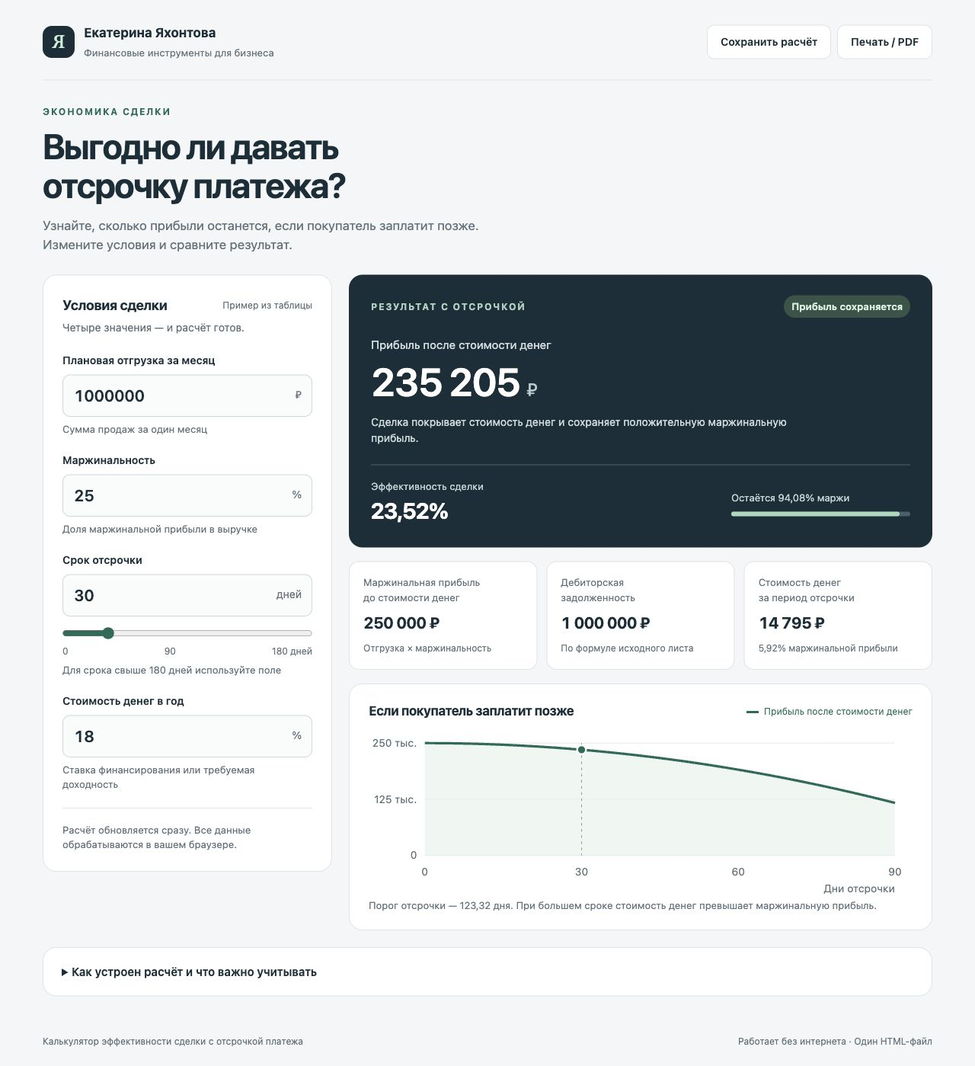
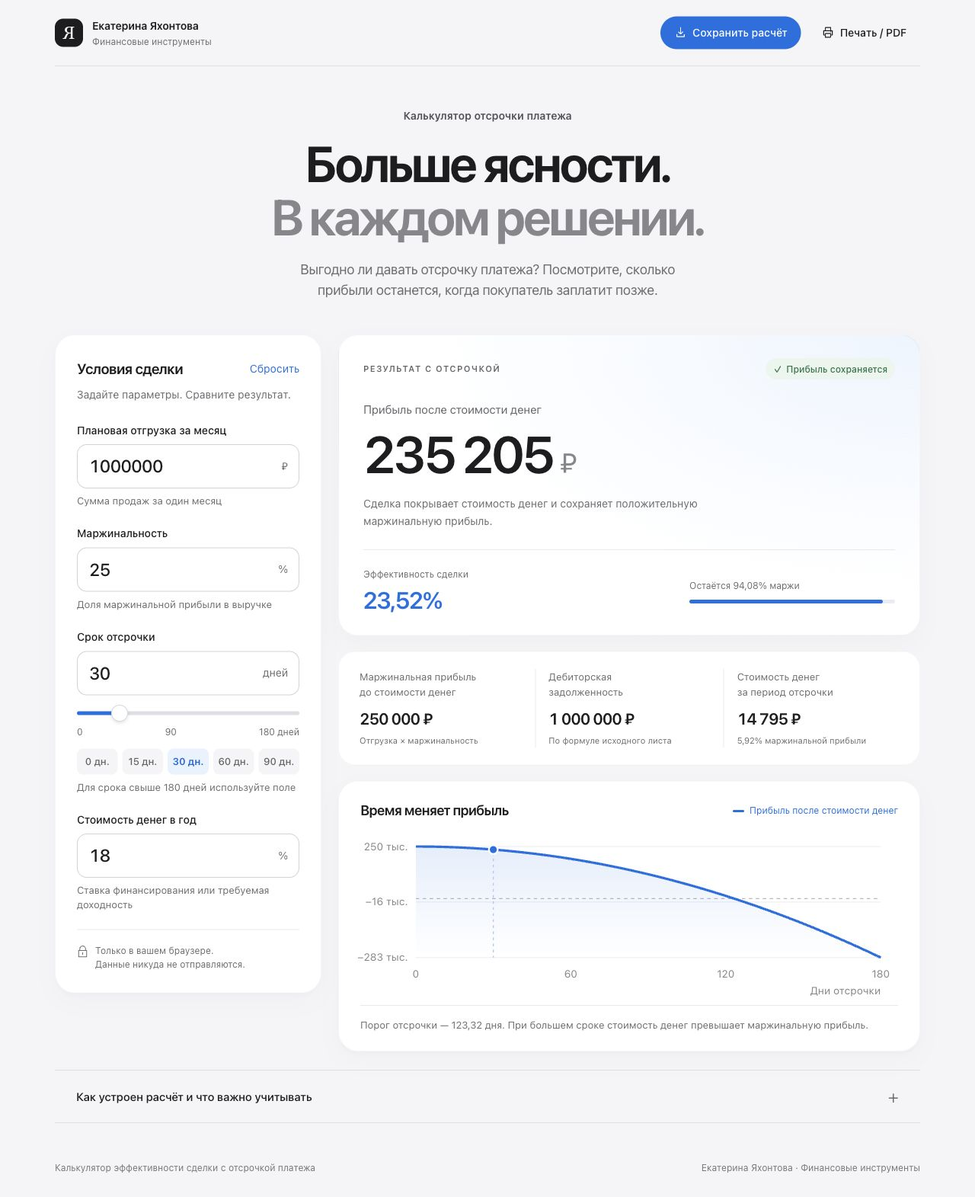
Обновить дизайн калькулятора: светлый интерфейс и мобильная версия

diff --git a/index.html b/index.html
@@ -6,28 +6,28 @@
 <meta name="description" content="Оцените, как отсрочка платежа влияет на маржинальную прибыль сделки. Автономный калькулятор по модели Екатерины Яхонтовой.">
 <title>Выгодно ли давать отсрочку платежа?</title>
 <style>
-:root{--ink:#192f39;--muted:#61717a;--paper:#f3f6f7;--line:#dce4e8;--green:#146b57;--mint:#d2f1df;--red:#a13d32;--amber:#99630a}*{box-sizing:border-box}body{margin:0;background:var(--paper);color:var(--ink);font:16px/1.5 -apple-system,BlinkMacSystemFont,"Segoe UI",Arial,sans-serif}button,input{font:inherit}button{cursor:pointer}button:focus-visible,input:focus-visible,summary:focus-visible,a:focus-visible{outline:3px solid #38ac8d;outline-offset:4px}button{border:1px solid var(--line);border-radius:10px;background:white;color:var(--ink);padding:11px 17px;font-size:14px;font-weight:600;transition:background .2s}button:hover{background:#eaf2ee}.wrap{max-width:1240px;margin:auto;padding:30px 36px 24px}.top{display:flex;align-items:center;justify-content:space-between;gap:20px;padding-bottom:25px;border-bottom:1px solid var(--line)}.brand{display:flex;align-items:center;gap:12px}.mark{display:grid;place-items:center;background:var(--ink);color:#c8efda;border-radius:12px;width:42px;height:42px;font:24px Georgia,serif}.brand strong{display:block;font-size:17px}.brand span{font-size:13px;color:var(--muted)}.actions{display:flex;gap:8px}.eyebrow{font-size:12px;font-weight:700;letter-spacing:1.8px;text-transform:uppercase;color:var(--green)}header{padding:32px 0 27px;max-width:820px}h1{font-size:clamp(30px,3.8vw,46px);line-height:1.12;letter-spacing:-1.8px;margin:10px 0 14px;font-weight:650}header p{margin:0;color:var(--muted);max-width:650px;font-size:17px}.layout{display:grid;grid-template-columns:380px minmax(0,1fr);gap:22px;align-items:start}.card{border:1px solid var(--line);border-radius:18px;background:white;overflow:hidden}.inputs{padding:25px}.card-title{display:flex;justify-content:space-between;align-items:center;gap:12px}h2{font-size:19px;letter-spacing:-.4px;margin:0}.card-title h2{font-size:18px}.text-button{white-space:nowrap;padding:3px 0;border:0;background:none;font-size:12px;color:var(--muted);font-weight:400;border-radius:0}.text-button:hover{background:none;color:var(--green)}.intro{font-size:14px;color:var(--muted);margin:6px 0 22px}.field{margin:0 0 21px}.field label{display:block;font-size:14px;font-weight:600;margin-bottom:8px}.control{position:relative}.control input{width:100%;border:1px solid #cbd7dd;background:#fafcfc;border-radius:10px;padding:11px 52px 11px 14px;font-size:21px;font-weight:600;color:var(--ink);font-variant-numeric:tabular-nums;appearance:textfield}.control input::-webkit-inner-spin-button{appearance:none}.unit{position:absolute;right:14px;top:16px;font-size:14px;color:var(--muted);pointer-events:none}.help{font-size:13px;color:var(--muted);margin:6px 0 0}.control input[aria-invalid=true]{border:2px solid var(--red);background:#fff6f3}.slider{width:100%;accent-color:var(--green);margin:14px 0 0;cursor:pointer}.range-labels{display:flex;justify-content:space-between;color:var(--muted);font-size:12px}.input-note{border-top:1px solid var(--line);padding-top:18px;font-size:13px;color:var(--muted)}.right{display:grid;gap:18px}.result{border-radius:18px;background:var(--ink);color:white;padding:27px 29px;position:relative;overflow:hidden}.result .eyebrow{color:#a8cfbf}.badge{display:inline-flex;align-items:center;gap:7px;padding:5px 10px;border-radius:30px;background:#345448;color:#d6f5df;font-size:13px;font-weight:600}.badge.loss{background:#5c3c3d;color:#ffd5cd}.badge.neutral{background:#535142;color:#fff0c6}.result-top{display:flex;justify-content:space-between;gap:15px;align-items:center}.result-label{margin:24px 0 0;color:#d2dfe2;font-size:15px}.amount{font-size:clamp(35px,4vw,51px);line-height:1.2;font-weight:600;letter-spacing:-1.6px;margin:7px 0 12px;font-variant-numeric:tabular-nums}.amount small{font-size:24px;font-weight:400;color:#b7cccf;letter-spacing:0}.verdict{font-size:14px;color:#cbdadb;max-width:590px;margin:0}.result-bottom{display:flex;align-items:center;justify-content:space-between;gap:18px;margin-top:24px;padding-top:18px;border-top:1px solid #49616a}.eff{font-size:29px;letter-spacing:-.8px}.mini-label{font-size:13px;color:#c1d4d6}.retention{width:46%;max-width:235px}.track{height:6px;background:#47616a;border-radius:4px;overflow:hidden;margin-top:9px}.fill{height:100%;width:94%;background:#a5d9bd;border-radius:4px}.stats{display:grid;grid-template-columns:repeat(3,minmax(0,1fr));gap:12px}.stat{padding:17px 18px;background:white;border:1px solid var(--line);border-radius:13px}.stat .label{font-size:13px;color:var(--muted);min-height:39px}.stat strong{font-size:21px;letter-spacing:-.5px;display:block;margin:8px 0 4px;font-variant-numeric:tabular-nums}.stat .sub{font-size:12px;color:var(--muted)}.chart-card{padding:22px 25px}.chart-head{display:flex;justify-content:space-between;align-items:center;gap:12px}.chart-head h2{font-size:17px}.legend{font-size:12px;color:var(--green);white-space:nowrap}.legend:before{content:'';display:inline-block;width:16px;height:3px;background:var(--green);vertical-align:middle;margin-right:7px}svg{display:block;width:100%;height:auto;margin-top:9px;overflow:visible}svg text{font-family:inherit;font-size:12px;fill:var(--muted)}.chart-note{font-size:13px;color:var(--muted);margin:5px 0 0}.details{margin-top:22px;padding:0 24px}summary{cursor:pointer;padding:20px 0;font-size:15px;font-weight:600}.method{padding:0 0 20px;max-width:900px;color:var(--muted);font-size:14px}.formulas{display:grid;grid-template-columns:1fr 1fr;gap:10px 24px;margin:14px 0}.formula{padding-bottom:10px;border-bottom:1px solid var(--line)}.formula strong{display:block;color:var(--ink);font-weight:600}.method p{margin:13px 0}.method a{color:var(--green)}footer{display:flex;justify-content:space-between;gap:18px;color:var(--muted);font-size:12px;padding:22px 0 0}#error{color:var(--red);font-size:14px;margin:15px 0 0}#notice{font-size:13px;color:var(--green);text-align:right;margin:8px 0 0;min-height:20px}.print-meta{display:none}.invalid .right{opacity:.5}.invalid .result{background:#57666a}@media(max-width:900px){.layout{grid-template-columns:320px minmax(0,1fr)}.wrap{padding:24px}.result{padding:23px}.stats{gap:8px}.stat{padding:14px 12px}.stat strong{font-size:18px}.result-top{align-items:flex-start;flex-direction:column}.retention{width:50%}}@media(max-width:720px){.wrap{padding:20px 16px}.top{align-items:flex-start}.brand span{display:none}.actions{flex-direction:column;gap:6px}.actions button{padding:8px 11px;font-size:12px}header{padding-top:27px}h1{letter-spacing:-1px}.layout{grid-template-columns:1fr}.inputs{padding:22px}.field{margin-bottom:18px}.stats{grid-template-columns:1fr}.stat{display:grid;grid-template-columns:1fr auto;align-items:center;column-gap:12px;padding:14px 18px}.stat .label{min-height:0}.stat strong{margin:0}.stat .sub{grid-column:1/-1;margin-top:4px}.result-top{flex-direction:row}.formulas{grid-template-columns:1fr}footer{flex-direction:column;gap:5px}.chart-card{padding:20px}.chart-head{align-items:flex-start;flex-direction:column;gap:4px}.result-bottom{align-items:flex-start}.retention{width:48%}.details{padding:0 20px}}@media print{@page{size:A4;margin:12mm}body{background:white;font-size:12px;-webkit-print-color-adjust:exact;print-color-adjust:exact}.wrap{padding:0;max-width:none}.actions,.text-button,.slider,.range-labels,#notice{display:none}.top{padding-bottom:12px}header{padding:18px 0}h1{font-size:30px}.layout{grid-template-columns:260px minmax(0,1fr);gap:14px}.inputs{padding:18px}.control input{font-size:18px;padding-top:8px;padding-bottom:8px}.unit{top:12px}.field{margin-bottom:15px}.intro{margin-bottom:15px}.result{padding:20px}.amount{font-size:32px}.result-top{flex-direction:column;gap:6px}.result-label{margin-top:15px}.result-bottom{margin-top:16px;padding-top:12px}.stats{gap:6px}.stat{padding:11px 9px}.stat strong{font-size:16px}.stat .label{font-size:12px}.chart-card{padding:15px}.card,.result{break-inside:avoid}.details{margin-top:14px}.method{font-size:11px}.print-meta{display:block;font-size:12px;color:var(--muted)}footer{font-size:10px}.help,.input-note{font-size:11px}}
+:root{color-scheme:light;--ink:#1d1d1f;--muted:#6e6e73;--paper:#f5f5f7;--line:#e8e8ed;--blue:#0071e3;--green:#237b4b;--red:#b43430;--radius:26px}*{box-sizing:border-box}body{margin:0;background:var(--paper);color:var(--ink);font:16px/1.5 -apple-system,BlinkMacSystemFont,"Segoe UI",Arial,sans-serif;-webkit-font-smoothing:antialiased}button,input{font:inherit}button{cursor:pointer;-webkit-tap-highlight-color:transparent}button:focus-visible,input:focus-visible,summary:focus-visible,a:focus-visible{outline:3px solid #0071e3;outline-offset:4px}button{border:0;border-radius:999px;background:#e9e9ed;color:var(--ink);padding:11px 18px;font-size:14px;font-weight:500;transition:background .2s,transform .2s}button:hover{background:#dddde3}button:active{transform:scale(.97)}button svg{width:17px;height:17px;display:inline-block;vertical-align:-3px;margin-right:7px}.wrap{max-width:1200px;margin:auto;padding:0 32px 30px}.top{display:flex;align-items:center;justify-content:space-between;gap:20px;min-height:87px;border-bottom:1px solid #dedee4}.brand{display:flex;align-items:center;gap:12px}.mark{display:grid;place-items:center;background:var(--ink);color:white;border-radius:11px;width:37px;height:37px;font:23px Georgia,serif}.brand strong{display:block;font-size:14px;font-weight:600;letter-spacing:-.2px}.brand span{display:block;font-size:12px;color:var(--muted);margin-top:1px}.actions{display:flex;gap:9px}.actions #save{background:var(--blue);color:white}.actions #save:hover{background:#0077ed}.actions #print{background:transparent}.actions #print:hover{background:#e9e9ed}.eyebrow{font-size:12px;font-weight:600;letter-spacing:1.6px;text-transform:uppercase;color:var(--muted)}header{text-align:center;padding:54px 0 45px;margin:auto;max-width:900px}header .eyebrow{font-size:14px;font-weight:600;letter-spacing:0;text-transform:none;color:#515158}h1{font-size:clamp(40px,5.4vw,66px);line-height:1.06;letter-spacing:-3.2px;margin:17px 0 21px;font-weight:650}h1 span{color:#86868b}header p{margin:auto;color:var(--muted);max-width:550px;font-size:18px;line-height:1.5;letter-spacing:-.3px}.layout{display:grid;grid-template-columns:350px minmax(0,1fr);gap:22px;align-items:start}.card{border:1px solid rgba(0,0,0,.04);border-radius:var(--radius);background:white;overflow:hidden;box-shadow:0 3px 5px rgba(0,0,0,.015),0 12px 32px rgba(0,0,0,.02)}.inputs{padding:28px}.card-title{display:flex;justify-content:space-between;align-items:center;gap:10px}h2{font-size:20px;line-height:1.3;letter-spacing:-.6px;margin:0;font-weight:600}.card-title h2{font-size:19px}.text-button{padding:5px 0;border:0;background:none;font-size:14px;color:var(--blue);font-weight:400;white-space:nowrap}.text-button:hover{background:none;color:#0055ac}.intro{font-size:14px;color:var(--muted);margin:8px 0 26px}.field{margin:0 0 23px}.field label{display:block;font-size:14px;font-weight:500;margin-bottom:8px}.control{position:relative}.control input{width:100%;border:1px solid #d2d2d7;background:white;border-radius:13px;padding:13px 56px 13px 15px;min-height:57px;font-size:23px;line-height:1.3;font-weight:500;letter-spacing:-.5px;color:var(--ink);font-variant-numeric:tabular-nums;appearance:textfield;transition:border-color .2s,box-shadow .2s}.control input:hover{border-color:#a1a1a6}.control input:focus{border-color:var(--blue);box-shadow:0 0 0 3px #0071e31c;outline:none}.control input::-webkit-inner-spin-button{appearance:none}.unit{position:absolute;right:15px;top:18px;font-size:14px;color:var(--muted);pointer-events:none}.help{font-size:13px;color:var(--muted);margin:7px 0 0;line-height:1.45}.control input[aria-invalid=true]{border-color:var(--red);background:#fff8f7}.slider{display:block;appearance:none;width:100%;height:5px;background:#dedee3;border-radius:8px;margin:21px 0 13px;cursor:pointer;accent-color:var(--blue)}.slider::-webkit-slider-thumb{appearance:none;width:22px;height:22px;background:white;border:1px solid #d8d8de;border-radius:50%;box-shadow:0 2px 5px #0002}.slider::-moz-range-thumb{width:22px;height:22px;background:white;border:1px solid #d8d8de;border-radius:50%;box-shadow:0 2px 5px #0002}.range-labels{display:flex;justify-content:space-between;color:var(--muted);font-size:12px}.presets{display:flex;gap:6px;margin-top:13px}.presets button{flex:1;min-height:34px;padding:5px 4px;font-size:13px;border-radius:8px;background:#f5f5f7;color:#626267}.presets button[aria-pressed=true]{background:#e8f2fe;color:#0068cf;font-weight:600}.input-note{display:flex;gap:9px;align-items:flex-start;border-top:1px solid var(--line);padding-top:18px;font-size:12px;line-height:1.5;color:var(--muted)}.input-note svg{flex-shrink:0;width:15px;height:17px;margin-top:2px}.right{display:grid;gap:20px;min-width:0}.result{border:1px solid rgba(0,0,0,.04);border-radius:var(--radius);background:radial-gradient(ellipse at 100% 0%,#edf5ff 0%,transparent 60%),white;color:var(--ink);padding:30px 32px 26px;overflow:hidden;box-shadow:0 12px 32px rgba(0,0,0,.025)}.result-top{display:flex;justify-content:space-between;gap:12px;align-items:center}.result .eyebrow{font-size:11px;letter-spacing:1.4px;color:#68686e}.badge{display:inline-flex;align-items:center;gap:6px;padding:5px 10px;border-radius:999px;background:#eaf5ee;color:#247448;font-size:12px;font-weight:500;white-space:nowrap}.badge::before{content:'✓';font-size:12px}.badge.loss{background:#fbeae8;color:#ab3730;white-space:normal}.badge.loss::before{content:'!';font-weight:700}.badge.neutral{background:#f5efd9;color:#816316}.badge.neutral::before{content:'—'}.result-label{margin:28px 0 0;color:#66666c;font-size:15px;letter-spacing:-.1px}.amount{display:flex;align-items:baseline;gap:10px;font-size:clamp(36px,5.4vw,68px);line-height:1.1;font-weight:600;letter-spacing:-3.6px;margin:10px 0 17px;font-variant-numeric:tabular-nums;overflow-wrap:anywhere}.amount small{font-size:.55em;font-weight:400;color:#86868b;letter-spacing:-1px}.verdict{font-size:14px;line-height:1.6;color:var(--muted);max-width:510px;margin:0}.result-bottom{display:flex;align-items:center;justify-content:space-between;gap:28px;margin-top:26px;padding-top:22px;border-top:1px solid var(--line)}.eff{font-size:31px;font-weight:600;letter-spacing:-1.2px;color:var(--blue);line-height:1.3}.mini-label{font-size:12px;color:var(--muted);margin-bottom:5px}.retention{width:48%;max-width:270px}.track{height:5px;background:#e7edf4;border-radius:10px;overflow:hidden;margin-top:10px}.fill{height:100%;width:94%;background:var(--blue);border-radius:10px;transition:width .35s}.stats{display:grid;grid-template-columns:repeat(3,minmax(0,1fr));gap:0;background:white;border:1px solid rgba(0,0,0,.04);border-radius:22px;padding:23px 10px}.stat{padding:0 17px;min-width:0}.stat+.stat{border-left:1px solid var(--line)}.stat .label{font-size:13px;line-height:1.5;color:var(--muted);min-height:39px}.stat strong{font-size:21px;font-weight:600;letter-spacing:-.75px;display:block;margin:10px 0 5px;font-variant-numeric:tabular-nums;overflow-wrap:anywhere}.stat .sub{font-size:11px;line-height:1.5;color:var(--muted);display:block}.chart-card{padding:26px 28px 23px}.chart-head{display:flex;justify-content:space-between;align-items:center;gap:12px}.chart-head h2{font-size:18px}.legend{font-size:12px;color:var(--blue);white-space:nowrap}.legend:before{content:'';display:inline-block;width:15px;height:3px;border-radius:3px;background:var(--blue);vertical-align:middle;margin-right:7px}#chart{display:block;width:100%;height:auto;margin:16px 0 12px;overflow:visible}#chart text{font-family:inherit;font-size:12px;fill:#86868b}.chart-note{font-size:13px;color:var(--muted);line-height:1.6;margin:0;padding-top:15px;border-top:1px solid var(--line)}.details{margin-top:24px;padding:0 28px;background:transparent;box-shadow:none;border:0;border-top:1px solid #dedee4;border-bottom:1px solid #dedee4;border-radius:0}summary{cursor:pointer;display:flex;justify-content:space-between;align-items:center;list-style:none;padding:22px 0;font-size:15px;font-weight:500;letter-spacing:-.15px}summary::-webkit-details-marker{display:none}summary:after{content:'+';font-size:24px;font-weight:300;line-height:1;color:var(--muted);padding-left:15px}details[open] summary:after{content:'−'}.method{padding:0 0 24px;max-width:950px;color:var(--muted);font-size:14px;line-height:1.7}.formulas{display:grid;grid-template-columns:1fr 1fr;gap:12px 32px;margin:18px 0}.formula{padding-bottom:12px;border-bottom:1px solid var(--line)}.formula strong{display:block;color:var(--ink);font-weight:500}.method p{margin:14px 0}footer{display:flex;justify-content:space-between;gap:18px;color:#77777d;font-size:12px;padding:21px 0 0}#error{color:var(--red);font-size:14px;margin:15px 0 0}#notice{font-size:13px;color:var(--green);text-align:right;margin:8px 0 0;min-height:20px}.print-meta{display:none}.invalid .result,.invalid .stats,.invalid .chart-card{opacity:.55}::selection{background:#cce5ff}@keyframes arrive{from{opacity:0;transform:translateY(10px)}to{opacity:1;transform:translateY(0)}}@media(prefers-reduced-motion:no-preference){header,.layout{animation:arrive .55s ease-out both}.layout{animation-delay:.08s}}@media(min-width:1400px){header{padding-top:66px;padding-bottom:55px}}@media(max-width:1050px){.layout{grid-template-columns:310px minmax(0,1fr);gap:18px}.inputs{padding:24px}.result{padding:26px}.amount{font-size:52px}.result-top{align-items:flex-start;flex-direction:column;gap:10px}.result-label{margin-top:22px}.stat{padding:0 12px}.stat strong{font-size:18px}.chart-head{align-items:flex-start;flex-direction:column;gap:5px}.card-title h2{font-size:18px}.text-button{font-size:13px}}@media(max-width:820px){.wrap{padding:0 24px 24px}.layout{grid-template-columns:1fr}.inputs{padding:27px}.fields{display:grid;grid-template-columns:1fr 1fr;column-gap:25px}.field{margin-bottom:22px}.result-top{flex-direction:row;align-items:center}.result{padding:30px}.amount{font-size:64px}.result-label{margin-top:27px}.stats{padding:23px 12px}.stat{padding:0 20px}.stat strong{font-size:23px}.chart-head{flex-direction:row;align-items:center}.chart-card{padding:26px}.input-note{max-width:none}header{padding:43px 0 35px}h1{font-size:54px;letter-spacing:-2.8px}}@media(max-width:520px){.wrap{padding:0 18px 22px}.top{min-height:79px;gap:10px}.brand{gap:9px}.brand strong{font-size:12px}.brand span{font-size:10px}.mark{width:31px;height:31px;border-radius:9px;font-size:21px}.actions{gap:4px}.actions button{width:36px;height:36px;padding:8px}.actions button svg{margin:0;width:18px;height:18px}.actions button span{display:none}.actions #print{background:#e9e9ed}header{padding:37px 0 29px}header .eyebrow{font-size:13px}h1{font-size:41px;letter-spacing:-2px;line-height:1.08;margin:14px -4px 17px}header p{font-size:16px;max-width:330px}.layout{gap:16px}.fields{display:block}.inputs{padding:25px 23px}.intro{margin-bottom:23px}.field{margin-bottom:23px}.card,.result{border-radius:23px}.result{padding:26px 23px}.result-top{flex-direction:column;align-items:flex-start;gap:12px}.result-label{margin-top:24px;font-size:14px}.amount{font-size:53px;letter-spacing:-2.7px;margin-top:11px;gap:8px}.verdict{font-size:14px}.result-bottom{gap:15px;margin-top:23px;padding-top:20px}.eff{font-size:29px}.retention{width:48%}.mini-label{font-size:12px}.stats{display:block;padding:6px 22px;border-radius:23px}.stat{display:grid;grid-template-columns:1fr auto;align-items:center;column-gap:10px;padding:17px 0}.stat+.stat{border-left:0;border-top:1px solid var(--line)}.stat .label{font-size:13px;min-height:0}.stat strong{font-size:22px;margin:0}.stat .sub{grid-column:1/-1;font-size:12px;margin-top:5px}.chart-card{padding:23px 19px}.chart-head{flex-direction:column;align-items:flex-start;gap:7px}.chart-head h2{font-size:17px}.legend{font-size:12px}.chart-note{font-size:13px}.details{margin-top:20px;padding:0 5px}summary{font-size:14px}.formulas{grid-template-columns:1fr}footer{flex-direction:column;gap:5px;font-size:11px}#notice{text-align:left}.presets button{min-height:36px}}@media print{@page{size:A4;margin:12mm}body{background:white;font-size:12px;-webkit-print-color-adjust:exact;print-color-adjust:exact}.wrap{padding:0;max-width:none}.actions,.text-button,.slider,.range-labels,.presets,#notice{display:none}.top{min-height:55px}header{padding:20px 0}header .eyebrow{font-size:12px}h1{font-size:32px;letter-spacing:-1.2px;margin:8px 0 10px}header p{font-size:13px}.layout{grid-template-columns:245px minmax(0,1fr);gap:14px}.fields{display:block}.inputs{padding:19px}.card-title h2{font-size:17px}.intro{font-size:12px;margin-bottom:17px}.control input{font-size:18px;padding:9px 45px 9px 12px;min-height:43px}.unit{top:12px}.field{margin-bottom:16px}.help,.input-note{font-size:10px}.result{padding:20px;background:white}.result-top{flex-direction:column;gap:7px}.result-label{margin-top:15px;font-size:13px}.amount{font-size:38px;letter-spacing:-1.6px}.verdict{font-size:11px}.result-bottom{margin-top:15px;padding-top:13px;gap:15px}.eff{font-size:25px}.mini-label{font-size:10px}.right{gap:12px}.stats{display:grid;padding:14px 4px}.stat{display:block;padding:0 10px}.stat+.stat{border-top:0;border-left:1px solid var(--line)}.stat strong{font-size:15px;margin-top:7px}.stat .label{font-size:10px;min-height:32px}.stat .sub{font-size:9px}.chart-card{padding:18px}.chart-head{flex-direction:column;gap:4px;align-items:flex-start}.chart-head h2{font-size:15px}.legend{font-size:10px}.chart-note{font-size:10px}.card,.result,.stats{break-inside:avoid;box-shadow:none}.details{margin-top:15px}.method{font-size:10px}.print-meta{display:block;font-size:11px;color:var(--muted)}summary{padding:14px 0;font-size:13px}footer{font-size:9px}.formulas{gap:8px 20px}}
 </style>
 </head>
 <body>
 <div class="wrap">
-<div class="top"><div class="brand"><div class="mark" aria-hidden="true">Я</div><div><strong>Екатерина Яхонтова</strong><span>Финансовые инструменты для бизнеса</span></div></div><div class="actions"><button id="save" type="button">Сохранить расчёт</button><button id="print" type="button">Печать / PDF</button></div></div>
-<header><div class="eyebrow">Экономика сделки</div><h1>Выгодно ли давать<br>отсрочку платежа?</h1><p>Узнайте, сколько прибыли останется, если покупатель заплатит позже. Измените условия и сравните результат.</p></header>
+<div class="top"><div class="brand"><div class="mark" aria-hidden="true">Я</div><div><strong>Екатерина Яхонтова</strong><span>Финансовые инструменты</span></div></div><div class="actions"><button id="save" type="button" aria-label="Сохранить расчёт" title="Сохранить расчёт"><svg viewBox="0 0 24 24" fill="none" stroke="currentColor" stroke-width="1.7" aria-hidden="true"><path d="M12 3v12m-4-4 4 4 4-4M5 16v4h14v-4" stroke-linecap="round" stroke-linejoin="round"/></svg><span>Сохранить расчёт</span></button><button id="print" type="button" aria-label="Печать / PDF" title="Печать / PDF"><svg viewBox="0 0 24 24" fill="none" stroke="currentColor" stroke-width="1.6" aria-hidden="true"><path d="M7 8V3h10v5M7 17H4V9h16v8h-3M7 14h10v7H7z" stroke-linejoin="round"/><path d="M17 11h.01" stroke-linecap="round"/></svg><span>Печать / PDF</span></button></div></div>
+<header><div class="eyebrow">Калькулятор отсрочки платежа</div><h1>Больше ясности.<br><span>В каждом решении.</span></h1><p>Выгодно ли давать отсрочку платежа? Посмотрите, сколько прибыли останется, когда покупатель заплатит позже.</p></header>
 <main class="layout" id="calculator">
-<section class="card inputs" aria-labelledby="inputs-heading"><div class="card-title"><h2 id="inputs-heading">Условия сделки</h2><button class="text-button" id="reset" type="button">Пример из таблицы</button></div><p class="intro">Четыре значения — и расчёт готов.</p>
-<div class="field"><label for="volume">Плановая отгрузка за месяц</label><div class="control"><input id="volume" type="number" inputmode="decimal" min="0.01" max="1000000000000" step="any" value="1000000" aria-describedby="volume-help" required><span class="unit">₽</span></div><p class="help" id="volume-help">Сумма продаж за один месяц</p></div>
+<section class="card inputs" aria-labelledby="inputs-heading"><div class="card-title"><h2 id="inputs-heading">Условия сделки</h2><button class="text-button" id="reset" type="button">Сбросить</button></div><p class="intro">Задайте параметры. Сравните результат.</p>
+<div class="fields"><div class="field"><label for="volume">Плановая отгрузка за месяц</label><div class="control"><input id="volume" type="number" inputmode="decimal" min="0.01" max="1000000000000" step="any" value="1000000" aria-describedby="volume-help" required><span class="unit">₽</span></div><p class="help" id="volume-help">Сумма продаж за один месяц</p></div>
 <div class="field"><label for="margin">Маржинальность</label><div class="control"><input id="margin" type="number" inputmode="decimal" min="0" max="100" step="any" value="25" aria-describedby="margin-help" required><span class="unit">%</span></div><p class="help" id="margin-help">Доля маржинальной прибыли в выручке</p></div>
-<div class="field"><label for="days">Срок отсрочки</label><div class="control"><input id="days" type="number" inputmode="numeric" min="0" max="3650" step="1" value="30" aria-describedby="days-help" required><span class="unit">дней</span></div><input class="slider" id="days-slider" type="range" min="0" max="180" step="1" value="30" aria-label="Срок отсрочки, от 0 до 180 дней"><div class="range-labels" aria-hidden="true"><span>0</span><span>90</span><span>180 дней</span></div><p class="help" id="days-help">Для срока свыше 180 дней используйте поле</p></div>
+<div class="field"><label for="days">Срок отсрочки</label><div class="control"><input id="days" type="number" inputmode="numeric" min="0" max="3650" step="1" value="30" aria-describedby="days-help" required><span class="unit">дней</span></div><input class="slider" id="days-slider" type="range" min="0" max="180" step="1" value="30" aria-label="Срок отсрочки, от 0 до 180 дней"><div class="range-labels" aria-hidden="true"><span>0</span><span>90</span><span>180 дней</span></div><div class="presets" role="group" aria-label="Быстрый выбор срока отсрочки"><button type="button" data-days="0" aria-pressed="false">0 дн.</button><button type="button" data-days="15" aria-pressed="false">15 дн.</button><button type="button" data-days="30" aria-pressed="true">30 дн.</button><button type="button" data-days="60" aria-pressed="false">60 дн.</button><button type="button" data-days="90" aria-pressed="false">90 дн.</button></div><p class="help" id="days-help">Для срока свыше 180 дней используйте поле</p></div>
 <div class="field"><label for="rate">Стоимость денег в год</label><div class="control"><input id="rate" type="number" inputmode="decimal" min="0" max="1000" step="any" value="18" aria-describedby="rate-help" required><span class="unit">%</span></div><p class="help" id="rate-help">Ставка финансирования или требуемая доходность</p></div>
-<div class="input-note">Расчёт обновляется сразу. Все данные обрабатываются в вашем браузере.</div><p id="error" role="alert" hidden></p>
+</div><div class="input-note"><svg viewBox="0 0 20 22" fill="none" stroke="currentColor" stroke-width="1.4" aria-hidden="true"><path d="M5 9V6a5 5 0 0 1 10 0v3M3 9h14v11H3z" stroke-linejoin="round"/><path d="M10 13v3" stroke-linecap="round"/></svg><span>Только в вашем браузере.<br>Данные никуда не отправляются.</span></div><p id="error" role="alert" hidden></p>
 </section>
 <div class="right">
 <section class="result" aria-labelledby="result-heading"><div class="result-top"><div class="eyebrow" id="result-heading">Результат с отсрочкой</div><span class="badge" id="badge">Прибыль сохраняется</span></div><p class="result-label">Прибыль после стоимости денег</p><div class="amount"><span id="profit">235 205</span> <small>₽</small></div><p class="verdict" id="verdict" aria-live="polite">Сделка покрывает стоимость денег и сохраняет положительную маржинальную прибыль.</p><div class="result-bottom"><div><div class="mini-label">Эффективность сделки</div><strong class="eff" id="efficiency">23,52%</strong></div><div class="retention"><div class="mini-label" id="retention-label">Остаётся 94,08% маржи</div><div class="track" aria-hidden="true"><div class="fill" id="retention-fill"></div></div></div></div></section>
 <div class="stats"><section class="stat"><div class="label">Маржинальная прибыль<br>до стоимости денег</div><strong id="gross">250 000 ₽</strong><span class="sub">Отгрузка × маржинальность</span></section><section class="stat"><div class="label">Дебиторская<br>задолженность</div><strong id="receivable">1 000 000 ₽</strong><span class="sub">По формуле исходного листа</span></section><section class="stat"><div class="label">Стоимость денег<br>за период отсрочки</div><strong id="cost">14 795 ₽</strong><span class="sub" id="cost-share">5,92% маржинальной прибыли</span></section></div>
-<section class="card chart-card" aria-labelledby="chart-heading"><div class="chart-head"><h2 id="chart-heading">Если покупатель заплатит позже</h2><div class="legend">Прибыль после стоимости денег</div></div><svg id="chart" viewBox="0 0 620 190" role="img" aria-label="Зависимость прибыли от срока отсрочки"></svg><p class="chart-note" id="threshold"></p></section>
+<section class="card chart-card" aria-labelledby="chart-heading"><div class="chart-head"><h2 id="chart-heading">Время меняет прибыль</h2><div class="legend">Прибыль после стоимости денег</div></div><svg id="chart" viewBox="0 0 620 190" role="img" aria-label="Зависимость прибыли от срока отсрочки"></svg><p class="chart-note" id="threshold"></p></section>
 </div></main>
 <details class="card details" id="method"><summary>Как устроен расчёт и что важно учитывать</summary><div class="method"><p>Формулы перенесены из листа «Выгодно ли давать отсрочку плат». В расчёте месяц равен 30 дням, год — 365 дням. Проценты переводятся в доли единицы.</p><div class="formulas"><div class="formula"><strong>Маржинальная прибыль</strong>Отгрузка за месяц × маржинальность</div><div class="formula"><strong>Дебиторская задолженность</strong>Отгрузка за месяц × дни отсрочки / 30</div><div class="formula"><strong>Стоимость денег</strong>Дебиторская задолженность × годовая ставка × дни отсрочки / 365</div><div class="formula"><strong>Прибыль после стоимости денег</strong>Маржинальная прибыль − стоимость денег</div><div class="formula"><strong>Эффективность сделки</strong>Прибыль после стоимости денег / отгрузка за месяц × 100%</div><div class="formula"><strong>Порог отсрочки</strong>√(30 × 365 × маржинальность / годовая ставка)</div></div><p><strong>Особенность исходной модели.</strong> Срок отсрочки участвует в двух формулах: в дебиторской задолженности и в стоимости денег. Поэтому при удвоении срока стоимость денег растёт в четыре раза. Здесь эта логика сохранена; график и порог рассчитаны по той же модели.</p><p>Положительный результат означает, что маржинальная прибыль покрывает рассчитанную стоимость денег. Модель не рассчитывает постоянные расходы, налоги, риск неплатежа и дополнительные затраты на взыскание. Это оценка сделки в рамках заданных условий, а не расчёт чистой прибыли компании.</p><p>Денежные итоги округляются до рубля только на экране; вычисления используют полную точность. Порог отсрочки — точка нулевой прибыли по этой модели.</p></div></details>
-<p id="notice" role="status"></p><p class="print-meta" id="print-date"></p><footer><span>Калькулятор эффективности сделки с отсрочкой платежа</span><span>Работает без интернета · Один HTML-файл</span></footer>
+<p id="notice" role="status"></p><p class="print-meta" id="print-date"></p><footer><span>Калькулятор эффективности сделки с отсрочкой платежа</span><span>Екатерина Яхонтова · Финансовые инструменты</span></footer>
 </div>
 <script>
 'use strict';
@@ -40,27 +40,29 @@ const num=v=>rub.format(Object.is(v,-0)?0:v);
 const money=v=>num(v)+' ₽';
 function calculate(v,m,d,r){const gross=v*m/100;const receivable=v*d/30;const cost=receivable*(r/100)*d/365;return {gross,receivable,cost,profit:gross-cost,efficiency:(gross-cost)/v*100};}
 function renderChart(v,m,d,r){
- const end=Math.max(90,Math.ceil(d/30)*30),left=64,right=600,top=18,bottom=146;
+ const end=Math.max(180,Math.ceil(d/30)*30),left=64,right=600,top=18,bottom=146;
  const results=Array.from({length:91},(_,i)=>calculate(v,m,end*i/90,r).profit);
  const upper=Math.max(...results,1),lower=Math.min(...results,0),span=upper-lower;
  const x=t=>left+t/end*(right-left),y=p=>bottom-(p-lower)/span*(bottom-top);
  const short=n=>{const a=Math.abs(n);return (n<0?'−':'')+(a>=1e9?decimal.format(a/1e9)+' млрд':a>=1e6?decimal.format(a/1e6)+' млн':a>=1e3?num(a/1e3)+' тыс.':num(a));};
- let svg='<title>Прибыль после стоимости денег в зависимости от дней отсрочки</title>';
- for(const p of [upper,(upper+lower)/2,lower])svg+=`<line x1="${left}" x2="${right}" y1="${y(p)}" y2="${y(p)}" stroke="#e4ebed"/><text x="${left-9}" y="${y(p)+4}" text-anchor="end">${short(p)}</text>`;
- if(lower<0)svg+=`<line x1="${left}" x2="${right}" y1="${y(0)}" y2="${y(0)}" stroke="#bdcacd" stroke-dasharray="4 4"/>`;
+ let svg='<title>Прибыль после стоимости денег в зависимости от дней отсрочки</title><defs><linearGradient id="chart-fade" x1="0" y1="0" x2="0" y2="1"><stop offset="0%" stop-color="#0071e3" stop-opacity=".12"/><stop offset="100%" stop-color="#0071e3" stop-opacity="0"/></linearGradient></defs>';
+ for(const p of [upper,(upper+lower)/2,lower])svg+=`<line x1="${left}" x2="${right}" y1="${y(p)}" y2="${y(p)}" stroke="#ededf1"/><text x="${left-9}" y="${y(p)+4}" text-anchor="end">${short(p)}</text>`;
+ if(lower<0)svg+=`<line x1="${left}" x2="${right}" y1="${y(0)}" y2="${y(0)}" stroke="#b8b8bf" stroke-dasharray="4 4"/>`;
  const path=results.map((p,i)=>(i?'L':'M')+x(end*i/90).toFixed(2)+','+y(p).toFixed(2)).join(' ');
- svg+=`<path d="${path} L ${right},${bottom} L ${left},${bottom} Z" fill="#e5f3eb" opacity=".65"/><path d="${path}" stroke="#146b57" fill="none" stroke-width="2.8"/>`;
+ svg+=`<path d="${path} L ${right},${bottom} L ${left},${bottom} Z" fill="url(#chart-fade)"/><path d="${path}" stroke="#0071e3" fill="none" stroke-width="2.8"/>`;
  for(let i=0;i<=3;i++)svg+=`<text x="${x(end*i/3)}" y="169" text-anchor="middle">${num(end*i/3)}</text>`;
- const cy=y(calculate(v,m,d,r).profit);svg+=`<line x1="${x(d)}" x2="${x(d)}" y1="${top}" y2="${bottom}" stroke="#809e94" stroke-dasharray="3 4"/><circle cx="${x(d)}" cy="${cy}" r="5" fill="#146b57" stroke="white" stroke-width="2"/><text x="${right}" y="188" text-anchor="end">Дни отсрочки</text>`;
+ const cy=y(calculate(v,m,d,r).profit);svg+=`<line x1="${x(d)}" x2="${x(d)}" y1="${top}" y2="${bottom}" stroke="#a8c7eb" stroke-dasharray="3 4"/><circle cx="${x(d)}" cy="${cy}" r="5" fill="#0071e3" stroke="white" stroke-width="2"/><text x="${right}" y="188" text-anchor="end">Дни отсрочки</text>`;
  $('chart').innerHTML=svg;
 }
 function update(){
  let invalid=ids.find(id=>!$(id).validity.valid||!Number.isFinite($(id).valueAsNumber));
  ids.forEach(id=>$(id).setAttribute('aria-invalid',String(id===invalid)));
  $('calculator').classList.toggle('invalid',!!invalid);$('error').hidden=!invalid;
- if(invalid){$('error').textContent={volume:'Укажите отгрузку больше нуля, не более 1 трлн ₽.',margin:'Укажите маржинальность от 0 до 100%.',days:'Укажите целое число дней от 0 до 3 650.',rate:'Укажите годовую ставку от 0 до 1 000%.'}[invalid];['profit','efficiency','gross','receivable','cost'].forEach(id=>$(id).textContent='—');$('badge').textContent='Проверьте данные';$('verdict').textContent='Заполните поля корректно, чтобы получить результат.';$('threshold').textContent='';$('cost-share').textContent='';$('retention-label').textContent='';$('retention-fill').style.width='0';$('chart').innerHTML='<title>Введите корректные данные для построения графика</title>';return false;}
+ if(invalid){$('error').textContent={volume:'Укажите отгрузку больше нуля, не более 1 трлн ₽.',margin:'Укажите маржинальность от 0 до 100%.',days:'Укажите целое число дней от 0 до 3 650.',rate:'Укажите годовую ставку от 0 до 1 000%.'}[invalid];['profit','efficiency','gross','receivable','cost'].forEach(id=>$(id).textContent='—');$('badge').className='badge neutral';$('badge').textContent='Проверьте данные';$('verdict').textContent='Заполните поля корректно, чтобы получить результат.';$('threshold').textContent='';$('cost-share').textContent='';$('retention-label').textContent='';$('retention-fill').style.width='0';$('chart').innerHTML='<title>Введите корректные данные для построения графика</title>';return false;}
  const [v,m,d,r]=ids.map(id=>$(id).valueAsNumber),c=calculate(v,m,d,r);
  $('days-slider').value=Math.min(d,180);
+ document.querySelectorAll('[data-days]').forEach(button=>button.setAttribute('aria-pressed',String(Number(button.dataset.days)===d)));
+ $('days-slider').style.background='linear-gradient(to right, #0071e3 '+Math.min(d/180*100,100)+'%, #dedee3 '+Math.min(d/180*100,100)+'%)';
  $('profit').textContent=num(c.profit);$('efficiency').textContent=decimal.format(c.efficiency)+'%';$('gross').textContent=money(c.gross);$('receivable').textContent=money(c.receivable);$('cost').textContent=money(c.cost);
  const sign=c.profit>1e-7?1:c.profit< -1e-7?-1:0;
  $('badge').className='badge'+(sign<0?' loss':sign===0?' neutral':'');
@@ -75,6 +77,7 @@ function update(){
  renderChart(v,m,d,r);return true;
 }
 ids.forEach(id=>$(id).addEventListener('input',update));
+document.querySelectorAll('[data-days]').forEach(button=>button.addEventListener('click',()=>{$('days').value=button.dataset.days;update();}));
 $('days-slider').addEventListener('input',()=>{$('days').value=$('days-slider').value;update();});
 $('reset').addEventListener('click',()=>{ids.forEach(id=>$(id).value=defaults[id]);update();$('notice').textContent='Восстановлены значения примера из исходной таблицы.';});
 $('save').addEventListener('click',()=>{if(!update()){$(ids.find(id=>$(id).getAttribute('aria-invalid')==='true')).focus();return;}const copy=document.documentElement.cloneNode(true);ids.forEach(id=>copy.querySelector('#'+id).setAttribute('value',$(id).value));copy.querySelector('#days-slider').setAttribute('value',$('days-slider').value);copy.querySelector('#notice').textContent='';const url=URL.createObjectURL(new Blob(['<!DOCTYPE html>\n'+copy.outerHTML],{type:'text/html;charset=utf-8'}));const a=document.createElement('a');a.href=url;a.download='Расчёт отсрочки платежа.html';document.body.append(a);a.click();a.remove();setTimeout(()=>URL.revokeObjectURL(url),1000);$('notice').textContent='Сохранён автономный HTML-файл с текущими условиями сделки.';});

diff --git a/README.md b/README.md
@@ -39,6 +39,7 @@ python3 -m http.server 8765 --bind 0.0.0.0
 ## Файлы
 
 - `index.html` — весь интерфейс, оформление и JavaScript без внешних зависимостей.
-- `preview.jpg` — снимок интерфейса.
+- `preview.jpg` — снимок интерфейса на компьютере.
+- `preview-mobile.jpg` — снимок мобильной версии.
 
 ![Предпросмотр](preview.jpg)
